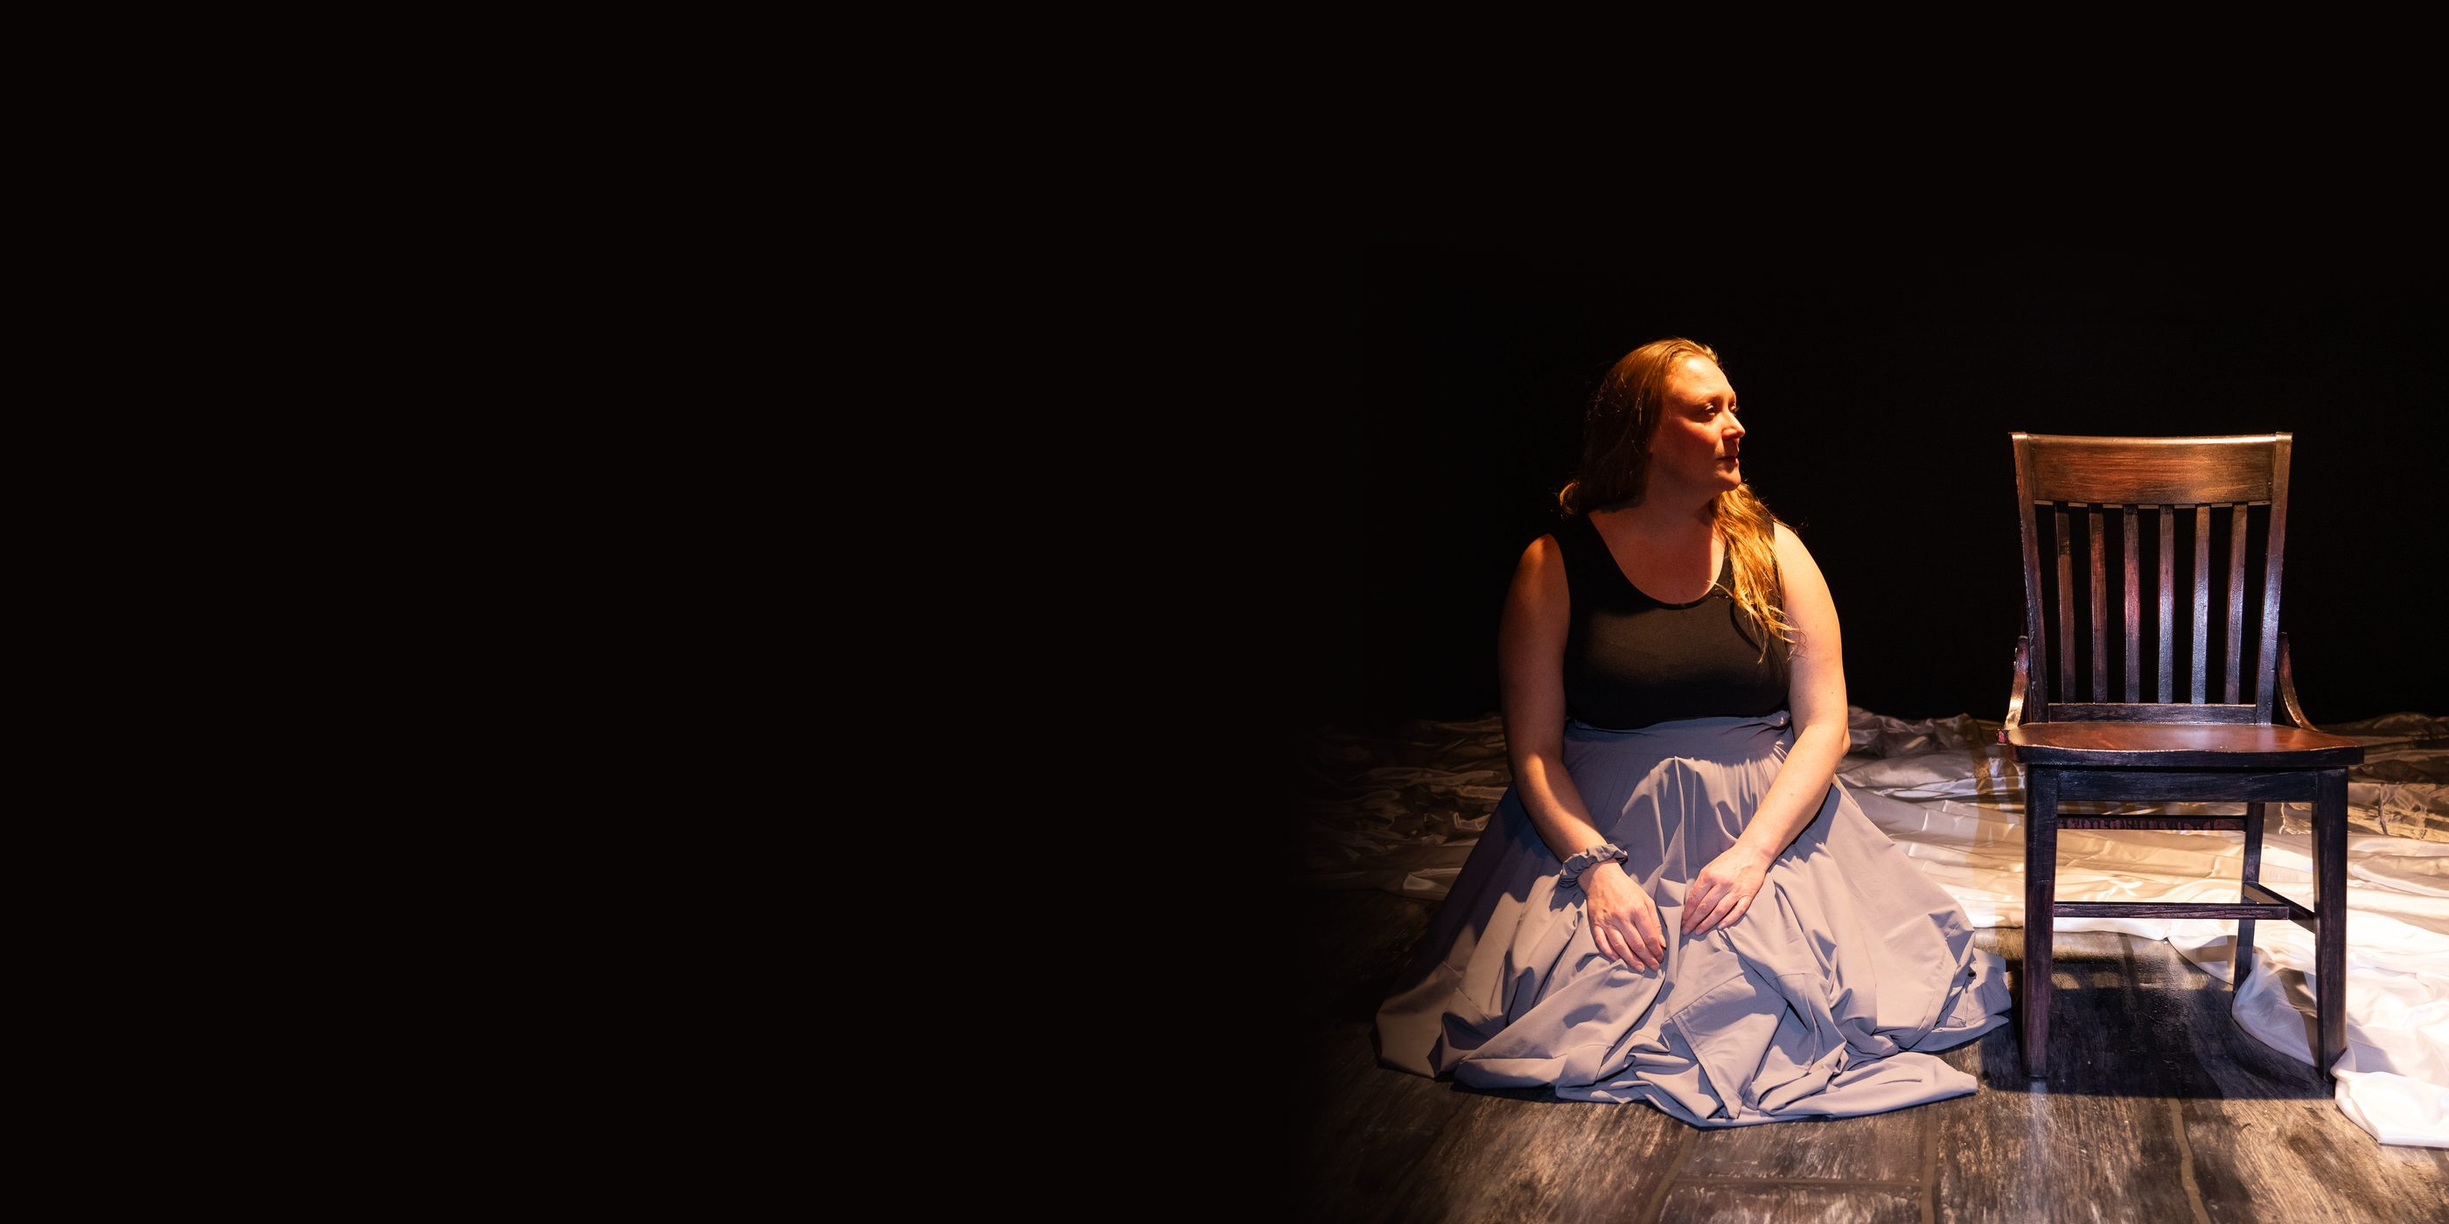
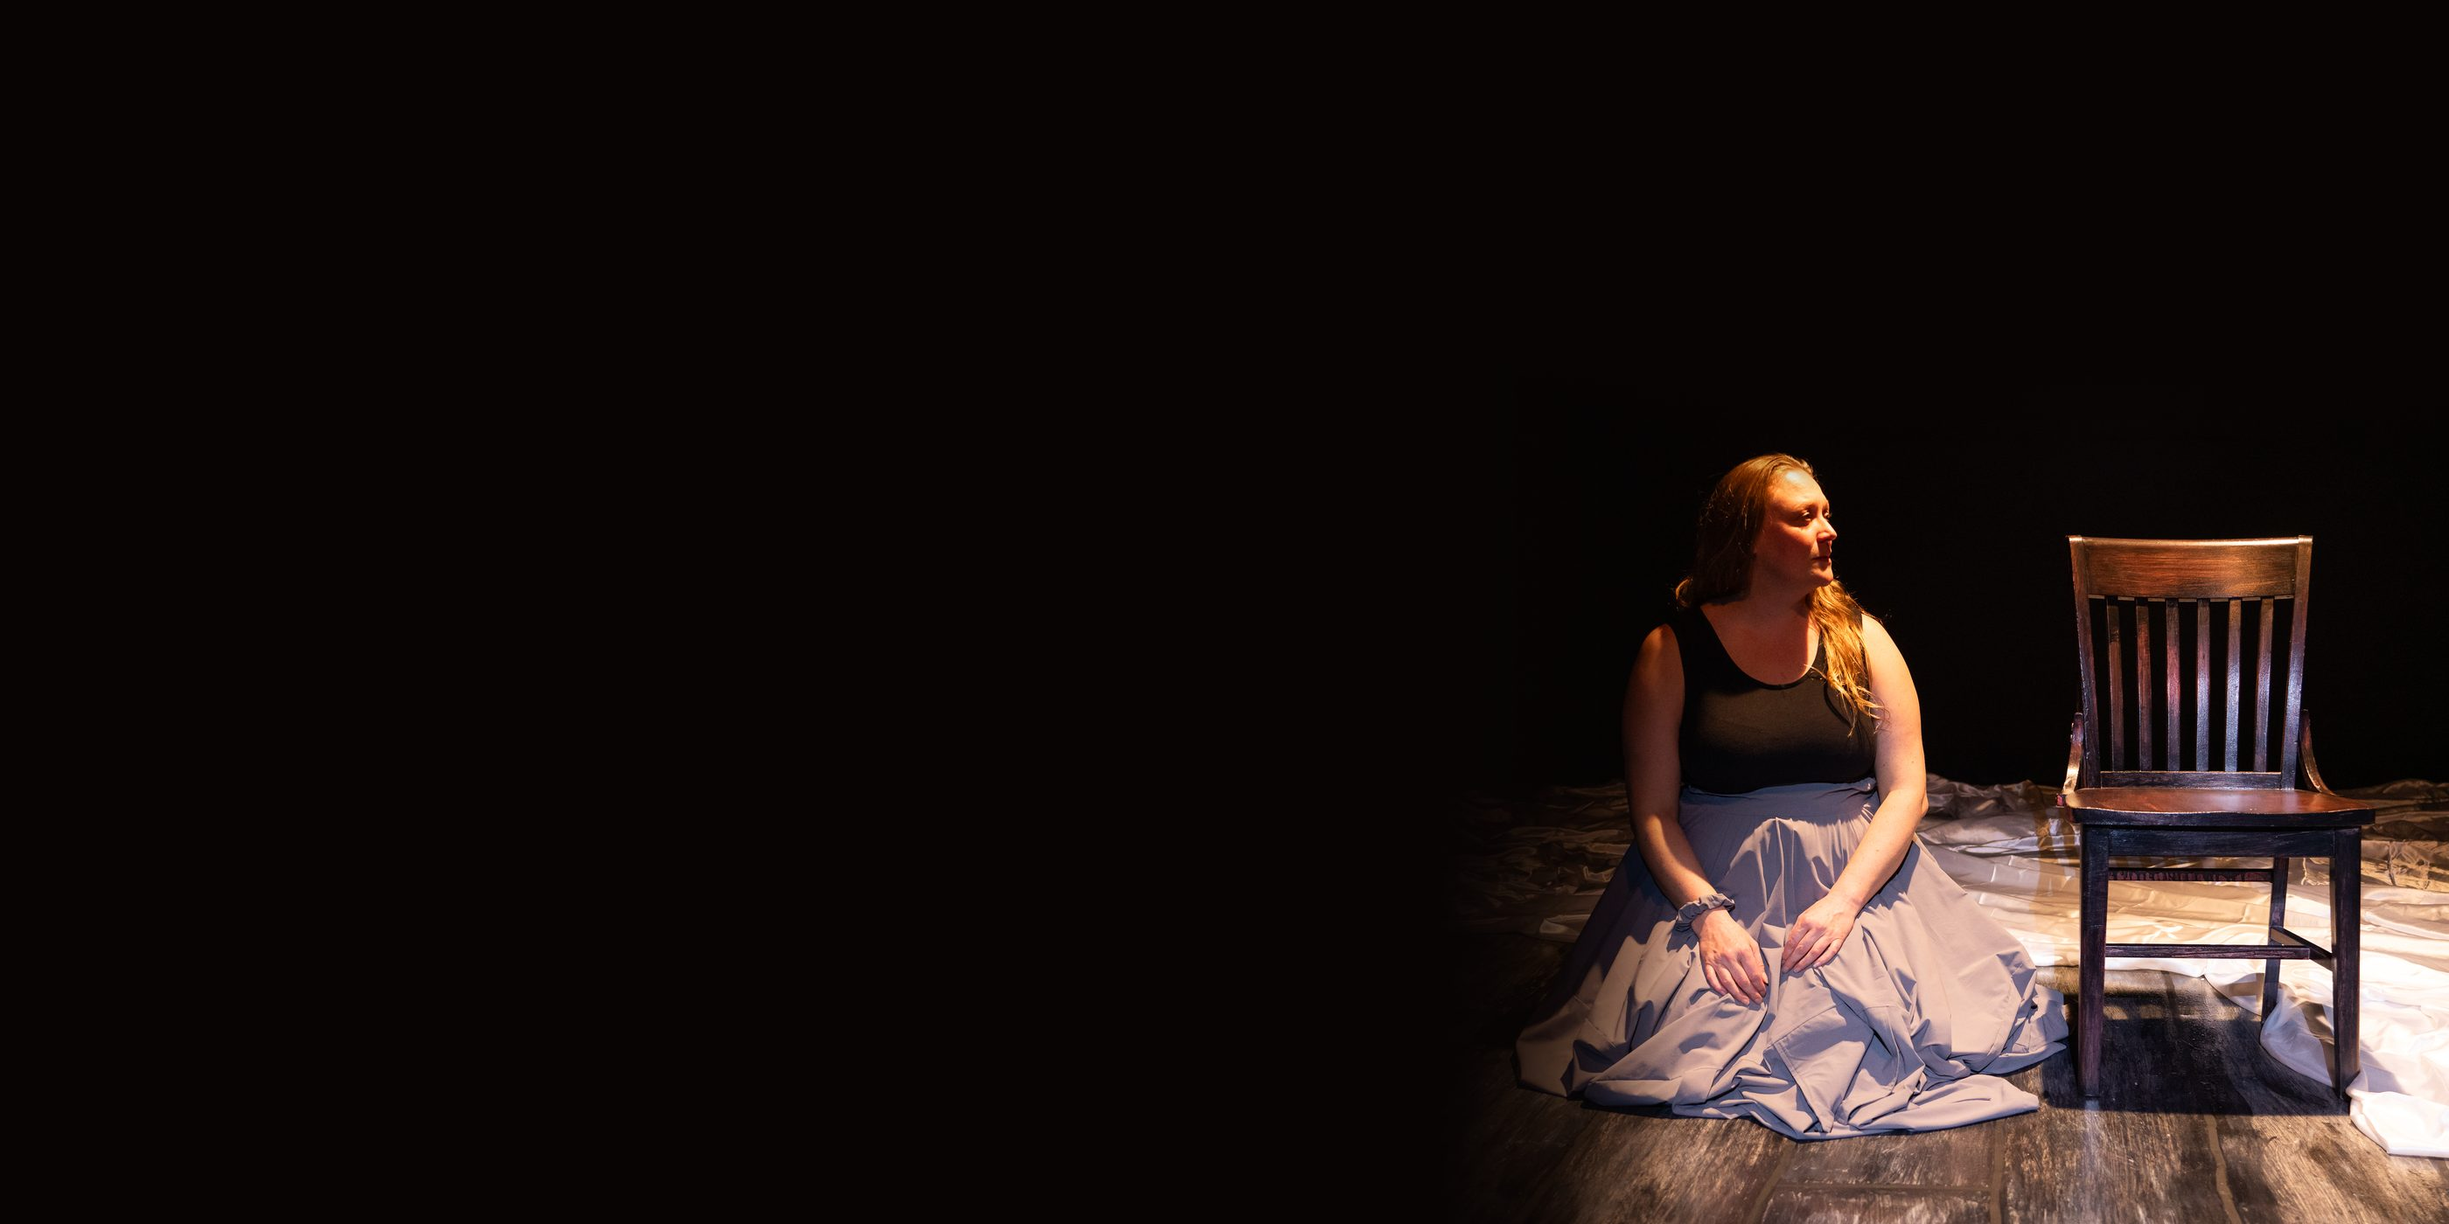
Add files via upload

Changed region(s): [[0.5593, 0.2764, 1.0, 1.0]]

diff --git a/index.html b/index.html
@@ -62,9 +62,9 @@
   .hero-content{position:relative;z-index:3;width:100%;padding:0 0 72px;}
   .hero-eyebrow-row{display:flex;align-items:center;gap:14px;margin-bottom:20px;}
   .hero-rule{width:38px;height:1px;background:var(--glow);}
-  h1.hero-title{font-size:clamp(3rem,8.4vw,6.8rem);line-height:0.94;letter-spacing:-0.015em;max-width:15ch;
+  h1.hero-title{font-size:clamp(2.8rem,6.6vw,6rem);line-height:0.96;letter-spacing:-0.015em;
     text-shadow:0 2px 40px rgba(0,0,0,0.5);}
-  h1.hero-title em{font-style:italic;font-weight:400;color:var(--ember-bright);
+  h1.hero-title em{display:block;font-style:italic;font-weight:400;color:var(--ember-bright);
     background:var(--sunrise);-webkit-background-clip:text;background-clip:text;-webkit-text-fill-color:transparent;padding-right:0.06em;}
   .hero-sub{max-width:44ch;font-size:1.1rem;color:var(--sand);margin-top:22px;text-shadow:0 1px 18px rgba(0,0,0,0.6);}
   .hero-quotes{display:flex;flex-wrap:wrap;gap:12px;margin-top:32px;}
@@ -97,7 +97,12 @@
   .cast-chip:hover{border-color:var(--ember);color:var(--bone);transform:translateY(-2px);}
   .cast-chip.active{background:var(--ember);border-color:var(--ember);color:#14181A;font-weight:700;}
   .cast-chip:focus-visible{outline:2px solid var(--glow);outline-offset:3px;}
-  .cast-stage{border:1px solid var(--line);background:rgba(234,217,204,0.035);padding:38px 34px;min-height:250px;display:flex;flex-direction:column;justify-content:center;}
+  .cast-stage{border:1px solid var(--line);background:rgba(234,217,204,0.035);padding:30px;min-height:330px;display:flex;flex-direction:column;justify-content:center;}
+  .cast-card{display:grid;grid-template-columns:1fr;gap:22px;align-items:center;}
+  .cast-card.has-photo{grid-template-columns:minmax(150px,0.8fr) 1.2fr;}
+  .cast-photo{width:100%;aspect-ratio:6/7;object-fit:cover;border:1px solid var(--line);}
+  .cast-photo-cap{font-family:'Space Mono',monospace;font-size:0.58rem;letter-spacing:0.06em;text-transform:uppercase;color:rgba(234,217,204,0.45);margin-top:6px;}
+  @media (max-width:520px){.cast-card.has-photo{grid-template-columns:1fr;}}
   .cast-name{font-family:'Fraunces',serif;font-size:1.9rem;color:var(--ember-bright);font-style:italic;font-weight:500;margin-bottom:6px;}
   .cast-role{font-family:'Space Mono',monospace;font-size:0.68rem;letter-spacing:0.12em;text-transform:uppercase;color:var(--lilac);margin-bottom:16px;}
   .cast-desc{color:var(--sand);font-size:1.02rem;line-height:1.6;margin:0;}
@@ -127,6 +132,19 @@
   .press-links{margin-top:22px;display:flex;gap:26px;flex-wrap:wrap;}
   .press-links a{font-family:'Space Mono',monospace;font-size:0.71rem;letter-spacing:0.05em;text-transform:uppercase;color:var(--glow);text-decoration:none;border-bottom:1px solid var(--glow);padding-bottom:2px;}
   .press-links a:hover{color:var(--bone);border-color:var(--bone);}
+  .audience{overflow:hidden;}
+  .aq-viewport{position:relative;overflow:hidden;
+    -webkit-mask-image:linear-gradient(90deg,transparent 0,#000 7%,#000 93%,transparent 100%);
+    mask-image:linear-gradient(90deg,transparent 0,#000 7%,#000 93%,transparent 100%);}
+  .aq-viewport:focus-visible{outline:2px solid var(--glow);outline-offset:4px;}
+  .aq-track{display:flex;gap:18px;width:max-content;padding:4px 0 8px;animation:aq-scroll 110s linear infinite;}
+  .aq-viewport:hover .aq-track,.aq-viewport:focus-within .aq-track{animation-play-state:paused;}
+  @keyframes aq-scroll{from{transform:translateX(0);}to{transform:translateX(-50%);}}
+  .aq{margin:0;width:340px;flex:0 0 auto;border:1px solid var(--line);background:rgba(234,217,204,0.035);padding:26px 24px;display:flex;flex-direction:column;justify-content:space-between;gap:18px;}
+  .aq blockquote{margin:0;font-family:'Fraunces',serif;font-style:italic;font-weight:500;font-size:1.05rem;line-height:1.5;color:var(--bone);}
+  .aq figcaption{font-family:'Space Mono',monospace;font-size:0.66rem;letter-spacing:0.1em;text-transform:uppercase;color:var(--rose);}
+  .aq figcaption::before{content:"";}
+  @media (prefers-reduced-motion:reduce){.aq-track{animation:none !important;} .aq-viewport{overflow-x:auto;-webkit-mask-image:none;mask-image:none;padding:0 28px;}}
   @media (max-width:720px){.press-grid{grid-template-columns:1fr;}}
 
   .bio{display:grid;grid-template-columns:300px 1fr;gap:56px;}
@@ -199,7 +217,7 @@
         <div class="hero-rule"></div>
         <div class="eyebrow">A Solo Show Written &amp; Performed by Kate Mura</div>
       </div>
-      <h1 class="hero-title">The Play About <em>My Father</em></h1>
+      <h1 class="hero-title">The Play About<em>My Father</em></h1>
       <p class="hero-sub">Singing, mime, dance, and a dozen voices. Ten years in the making. One performer's love letter to the community who showed up when it mattered most.</p>
       <div class="hero-quotes">
         <div class="hq"><b>A preternaturally gifted performer telling an achingly human, uplifting story.</b><span>Willamette Week</span></div>
@@ -295,12 +313,35 @@
   </div>
 </section>
 
+<section class="section audience" id="audience" aria-label="Audience reactions">
+  <div class="wrap">
+    <div class="section-head reveal">
+      <div class="eyebrow">From the Audience</div>
+      <h2>What people said on the way out.</h2>
+    </div>
+  </div>
+  <div class="aq-viewport reveal" tabindex="0" aria-label="Audience quotes. Hover or focus to pause.">
+    <div class="aq-track">
+        <figure class="aq"><blockquote>&ldquo;It's a one person Our Town, wilder than Thornton, with moments of raw emotion that will take your breath away. All of this in an hour and 10 minutes.&rdquo;</blockquote><figcaption>Ernie Lijoi</figcaption></figure>
+        <figure class="aq"><blockquote>&ldquo;Thank you for a remarkable evening that will ring in my memory for years to come!&rdquo;</blockquote><figcaption>Fayra Teeters</figcaption></figure>
+        <figure class="aq"><blockquote>&ldquo;It made me cry too. And laugh. Definitely worth going to see.&rdquo;</blockquote><figcaption>Greg Parkinson</figcaption></figure>
+        <figure class="aq"><blockquote>&ldquo;I counted no less than 10 different characters with distinct voices, attitudes, and souls – even!&rdquo;</blockquote><figcaption>Fayra Teeters</figcaption></figure>
+        <figure class="aq"><blockquote>&ldquo;Definitely go see this moving solo show by the phenomenal Kate Mura.&rdquo;</blockquote><figcaption>Shareen Jacobs</figcaption></figure>
+        <figure class="aq"><blockquote>&ldquo;There is an amazing amount of kindness and compassion in the play.&rdquo;</blockquote><figcaption>Sandra de Helen</figcaption></figure>
+        <figure class="aq"><blockquote>&ldquo;This version feels the most moving, with fluidity like water – easy transitions between the different folx represented – easy transitions between life &amp; afterlife.&rdquo;</blockquote><figcaption>Fayra Teeters</figcaption></figure>
+        <figure class="aq"><blockquote>&ldquo;To me, sometimes theatre can get lost in a lot of bells and whistles, but there's nothing more spectacular than an authentic story, truthfully told. A loving tribute, indeed.&rdquo;</blockquote><figcaption>Ajai Tripathi</figcaption></figure>
+        <figure class="aq"><blockquote>&ldquo;Run! Do not walk! To see Kate Mura's show at Fuse! The Play About My Father.&rdquo;</blockquote><figcaption>Chrisse Roccaro</figcaption></figure>
+        <figure class="aq"><blockquote>&ldquo;I'm still hearing 'Nights in White Satin' in my head. Your singing voice has never sounded so clear, true and haunting.&rdquo;</blockquote><figcaption>Fayra Teeters</figcaption></figure>
+        <figure class="aq"><blockquote>&ldquo;This for me is theater at its best: funny, moving, poignant and performed by a master of transformation who transitions seamlessly from character to character, weaving a multi-threaded narrative about grief into a beautiful tapestry of gratitude.&rdquo;</blockquote><figcaption>Ernie Lijoi</figcaption></figure>
+    </div>
+  </div>
+</section>
+
 <section class="section" id="bio">
   <div class="wrap">
     <div class="bio">
       <div class="bio-photo reveal">
-        <img src="images/kate-mura-headshot.jpg" alt="Portrait of Kate Mura, wide-eyed and mid-expression.">
-        <div class="cap">Photo: Gary Norman</div>
+        <img src="kate-mura-headshot-2026.jpg" alt="Headshot of Kate Mura, smiling, with long red hair.">
       </div>
       <div class="bio-copy reveal">
         <div class="eyebrow">The Artist</div>
@@ -330,6 +371,7 @@
       <div class="pb-item"><div class="pb-role">Performer / Creator</div><div class="pb-name">Kate Mura</div></div>
       <div class="pb-item"><div class="pb-role">Director / Mise en Scène Designer</div><div class="pb-name">Rusty Tennant</div></div>
       <div class="pb-item"><div class="pb-role">Costume Design</div><div class="pb-name">Jessica Kroeze</div></div>
+      <div class="pb-item"><div class="pb-role">Voiceover</div><div class="pb-name">Janet Mura &amp; Kate Mura</div></div>
       <div class="pb-item"><div class="pb-role">Producers</div><div class="pb-name">Fuse Theatre Ensemble &amp; Kate's Theatrics LLC</div></div>
       <div class="pb-item"><div class="pb-role">Production Photography</div><div class="pb-name">Greg Parkinson</div></div>
     </div>
@@ -433,8 +475,16 @@
   },{threshold:0.1});
   document.querySelectorAll('.reveal').forEach(function(el){ io.observe(el); });
 
+  (function(){
+    var t = document.querySelector('.aq-track');
+    if(!t) return;
+    Array.prototype.slice.call(t.children).forEach(function(n){
+      var c = n.cloneNode(true); c.setAttribute('aria-hidden','true'); t.appendChild(c);
+    });
+  })();
+
   var CAST = [
-    {name:"Stella", role:"Great-aunt, narrator",
+    {name:"Stella", role:"Great-aunt, narrator", img:"cast-stella.jpg",
      desc:"Jovial and babushka-wearing, Stella carries the story. She has seen her share of tragedy but stays delighted by humanity, and chortles remembering how she snuck food from the racetrack buffet to help stretch the family's budget."},
     {name:"Tony", role:"Family friend",
      desc:"Keeper of the famous lasagna. In the show's opening vision of the afterlife, the line to the Pearly Gates never moves, and that is fine, because the people you love are there and occasionally Tony cooks."},
@@ -457,12 +507,15 @@
 
   function render(i){
     var c = CAST[i];
+    var photo = c.img ?
+      '<div><img class="cast-photo" src="' + c.img + '" alt="Kate Mura as ' + c.name + '."><div class="cast-photo-cap">Photo: Greg Parkinson</div></div>' : '';
     stage.innerHTML =
-      '<div class="cast-fade">' +
+      '<div class="cast-fade cast-card' + (c.img ? ' has-photo' : '') + '">' + photo +
+      '<div>' +
       '<div class="cast-name">' + c.name + '</div>' +
       '<div class="cast-role">' + c.role + '</div>' +
       '<p class="cast-desc">' + c.desc + '</p>' +
-      '</div>';
+      '</div></div>';
     Array.prototype.forEach.call(list.children, function(b, bi){
       if(bi === i){ b.classList.add('active'); b.setAttribute('aria-selected','true'); }
       else { b.classList.remove('active'); b.setAttribute('aria-selected','false'); }

diff --git a/archive.html b/archive.html
@@ -202,7 +202,7 @@
   /* ---------- STORY (mask theft) ---------- */
   .story{ display:grid; grid-template-columns:0.9fr 1.1fr; gap:64px; align-items:center; }
   .story-art{ position:relative; }
-  .story-art img{ border:1px solid var(--line); }
+  .story-art img{ border:1px solid var(--line); width:100%; height:auto; object-fit:contain; }
   .story-copy p{ color:var(--parchment); font-size:1.05rem; }
   .story-copy p.big{ font-family:'Fraunces',serif; font-style:italic; font-size:1.5rem; color:var(--brass-bright); font-weight:500; line-height:1.35; }
   @media (max-width:860px){ .story{ grid-template-columns:1fr; gap:36px; } .story-art{order:2;} .story-copy{order:1;} }
@@ -219,7 +219,7 @@
   .tl-body p{ margin:0; color:var(--parchment); font-size:0.96rem; opacity:0.85; }
 
   /* ---------- PRESS ---------- */
-  .press-grid{ display:grid; grid-template-columns:repeat(3,1fr); gap:1px; background:var(--line); border:1px solid var(--line); }
+  .press-grid{ display:grid; grid-template-columns:repeat(2,1fr); gap:1px; background:var(--line); border:1px solid var(--line); }
   .press-card{ background:var(--ink); padding:32px 26px; display:flex; flex-direction:column; justify-content:space-between; min-height:230px; }
   .press-card p{ font-family:'Fraunces',serif; font-style:italic; font-size:1.15rem; color:var(--bone); font-weight:500; line-height:1.45; }
   .press-card cite{ font-style:normal; display:block; margin-top:18px; font-family:'Space Mono',monospace; font-size:0.68rem; letter-spacing:0.08em; text-transform:uppercase; color:var(--brass-bright); }
@@ -255,8 +255,8 @@
   @media (max-width:720px){ .fuse-block{ grid-template-columns:1fr; } .fuse-block img{ width:90px; } }
 
   /* ---------- GALLERY ---------- */
-  .gallery{ display:grid; grid-template-columns:1.3fr 1fr; gap:16px; }
-  .gallery img{ width:100%; height:100%; object-fit:cover; border:1px solid var(--line); }
+  .gallery{ columns:3 260px; column-gap:16px; }
+  .gallery img{ width:100%; height:auto; border:1px solid var(--line); margin:0 0 16px; break-inside:avoid; }
   .gallery .gcol{ display:grid; gap:16px; }
   @media (max-width:720px){ .gallery{ grid-template-columns:1fr; } }
 
@@ -353,7 +353,7 @@
   <div class="wrap">
     <div class="story">
       <div class="story-art reveal">
-        <img src="images/suburban-tribe-poster-split.jpg" alt="Split-image poster of Kate Mura for Suburban Tribe: Unmasked.">
+        <img src="images/suburban-tribe-avignon-2015.jpg" alt="Suburban Tribe: Unmasked poster art: Kate Mura lowering a painted mask, with a row of suburban houses in silhouette.">
       </div>
       <div class="story-copy reveal">
         <div class="eyebrow">How the Story Began</div>
@@ -448,6 +448,10 @@
         <p>"She performed (or rather took the form of) eight different characters from the community, each telling the story from their own point of view."</p>
         <cite>The Penning Girl</cite>
       </div>
+      <div class="press-card">
+        <p>"What the small audience got was a dramatic tour-de-force from Kate Mura... Entertaining, funny and poignant, this is Adelaide Festival worthy fare at Fringe prices – one not to miss."</p>
+        <cite>Bert R., Adelaide Fringe, 2014</cite>
+      </div>
     </div>
   </div>
 </section>
@@ -515,11 +519,15 @@
     </div>
 
     <div class="gallery reveal">
-      <img src="images/suburban-tribe-avignon-2015.jpg" alt="Suburban Tribe: Unmasked poster art: Kate Mura lowering a painted mask, with a row of suburban houses in silhouette.">
-      <div class="gcol">
-        <img src="images/suburban-tribe-poster-masks.jpg" alt="Suburban Tribe poster art featuring Kate Mura surrounded by ornate masks.">
-        <img src="images/suburban-tribe-poster-split.jpg" alt="Suburban Tribe: Unmasked poster, split portrait of Kate Mura.">
-      </div>
+      <img src="road-01.jpg" alt="Kate Mura in a red dress, smiling and touching the nose of a red commedia mask. 2015." loading="lazy">
+      <img src="road-02.jpg" alt="Kate Mura in a red dress, kissing the forehead of a red commedia mask. 2015." loading="lazy">
+      <img src="road-03.jpg" alt="Kate Mura in a red dress, holding a red commedia mask and smiling at it. 2015." loading="lazy">
+      <img src="road-04.jpg" alt="Kate Mura in a red headscarf and mask, waving, Adelaide Fringe." loading="lazy">
+      <img src="road-05.jpg" alt="Kate Mura in a red headscarf and mask, holding a ticket, Adelaide Fringe." loading="lazy">
+      <img src="road-06.jpg" alt="Kate Mura in mask beside a BankSA Support Acts sign, Adelaide Fringe." loading="lazy">
+      <img src="road-07.jpg" alt="Kate Mura in a yellow cap and mask inside a BankSA branch, Adelaide Fringe." loading="lazy">
+      <img src="images/suburban-tribe-poster-masks.jpg" alt="Suburban Tribe poster art featuring ornate masks." loading="lazy">
+      <img src="images/suburban-tribe-poster-split.jpg" alt="Suburban Tribe poster art detail with a mask and the show title." loading="lazy">
     </div>
 
     <div class="archive-cta reveal" style="margin-top:56px; background:rgba(239,230,216,0.04); border:1px solid var(--line); padding:40px; display:flex; justify-content:space-between; align-items:center; gap:24px; flex-wrap:wrap;">
